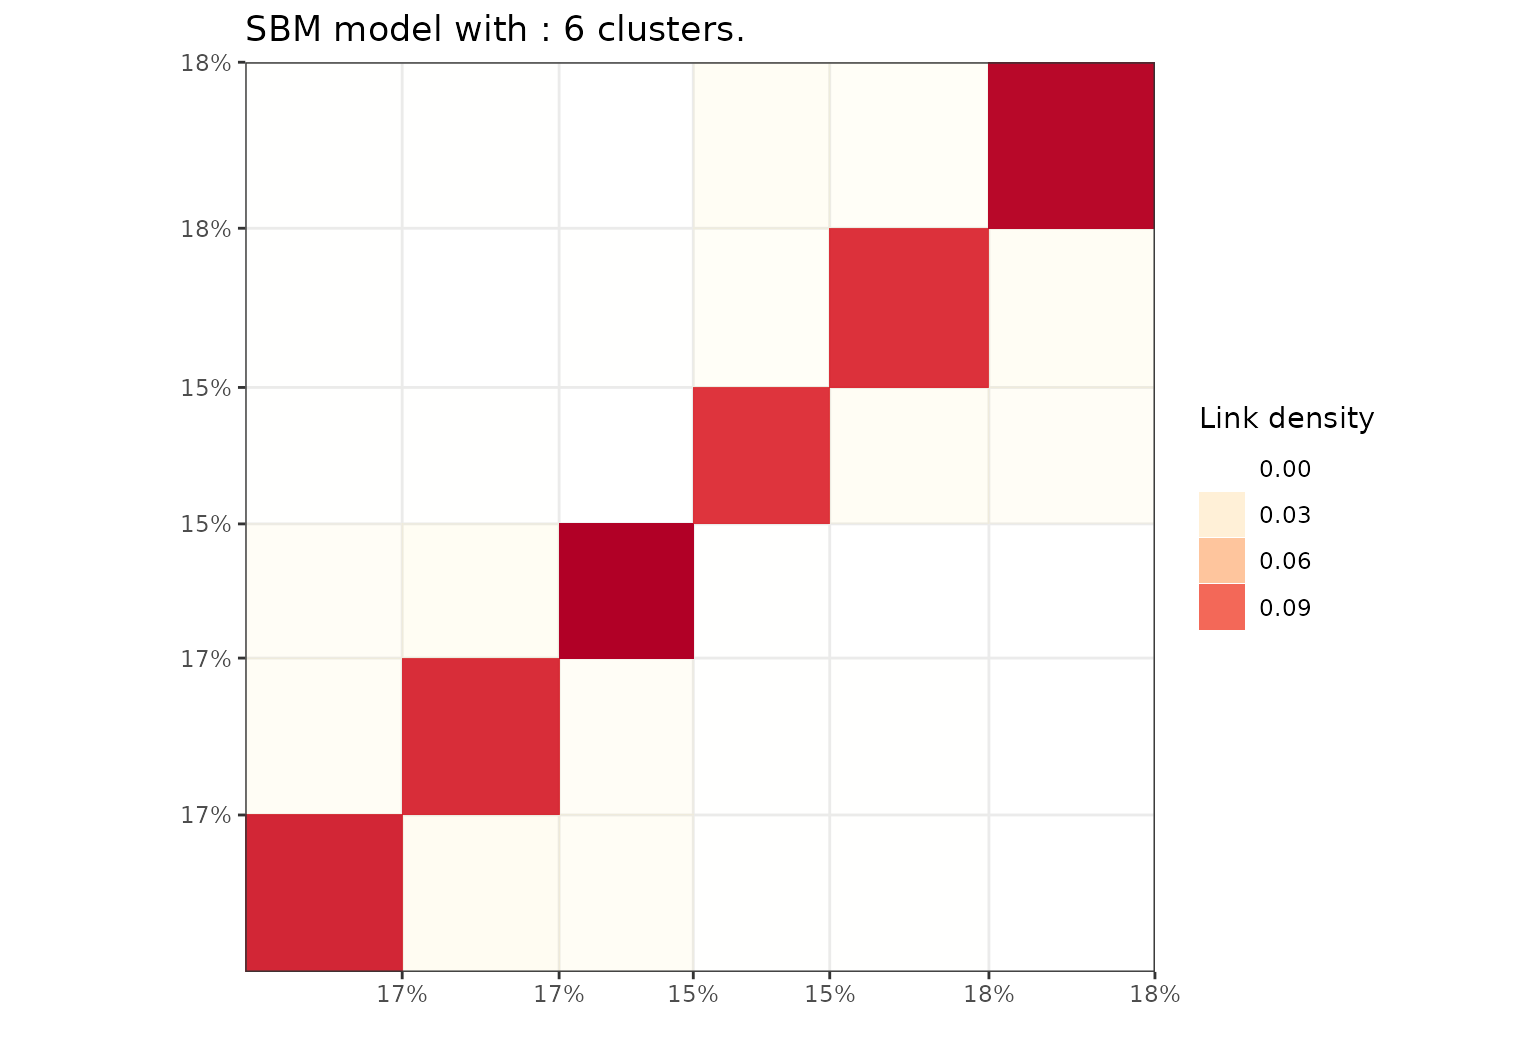
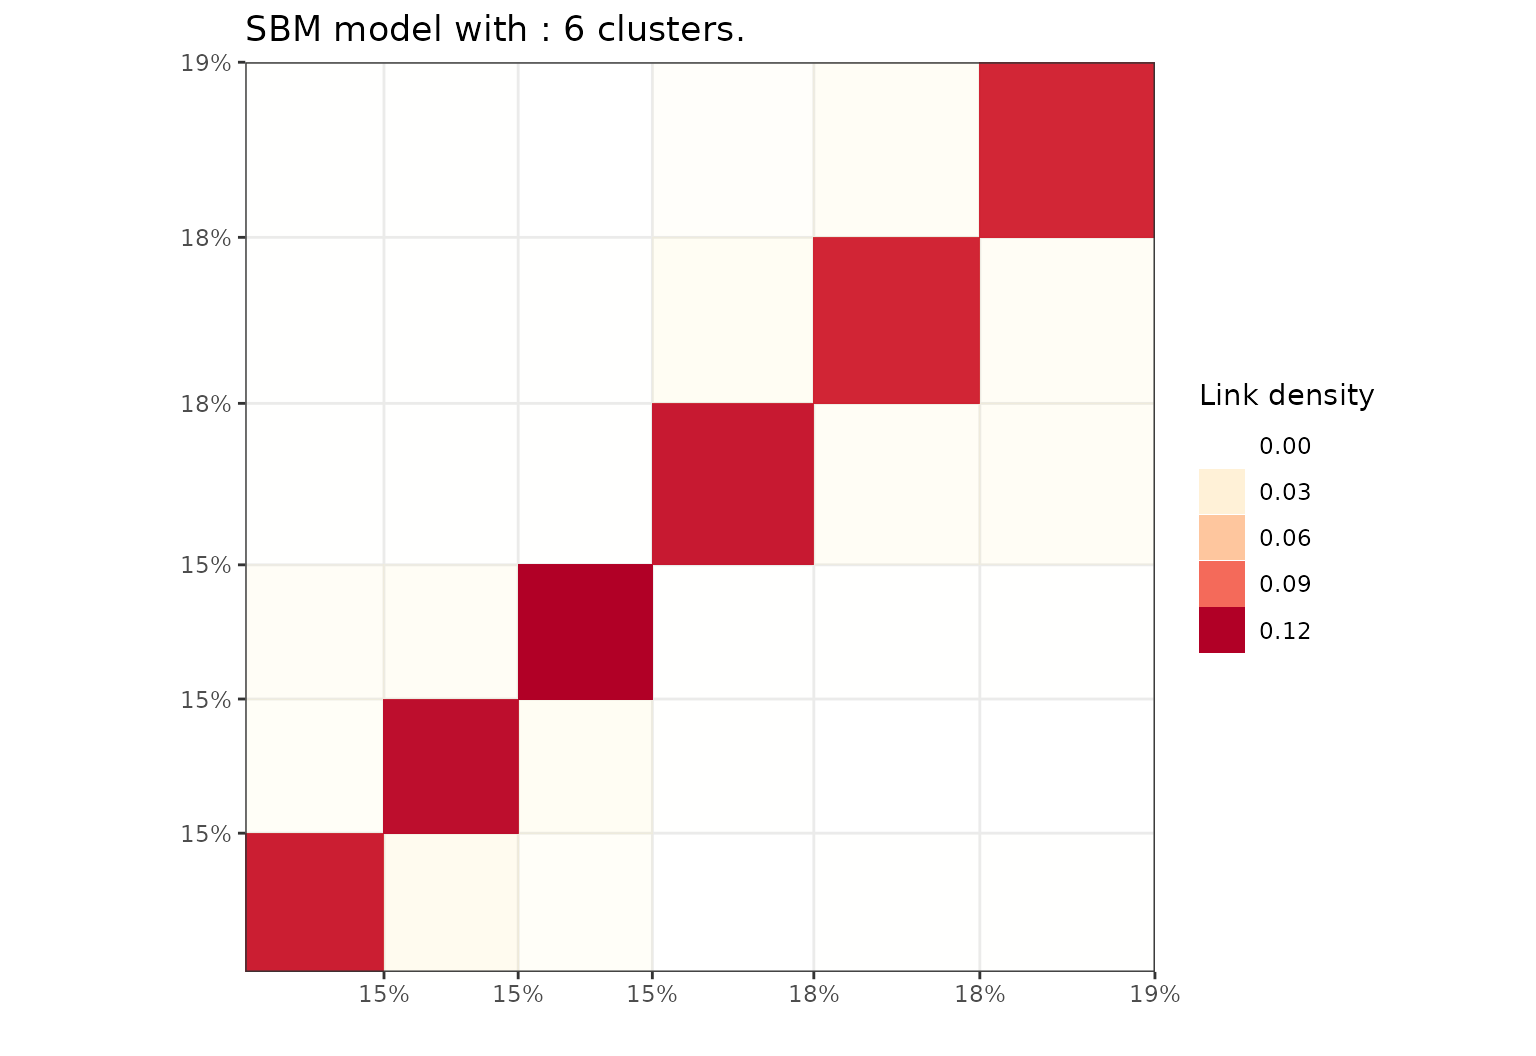
cran submited version 0.5.1

diff --git a/docs/index.html b/docs/index.html
@@ -112,12 +112,12 @@
 <div id="installation" class="section level2">
 <h2 class="hasAnchor">
 <a href="#installation" class="anchor"></a>Installation</h2>
-<p>You can install the developpement version of greed from <a href="https://github.com/">GitHub</a> with:</p>
+<p>You can install the development version of greed from <a href="https://github.com/">GitHub</a> with:</p>
 <div class="sourceCode" id="cb1"><pre class="downlit sourceCode r">
 <code class="sourceCode R"><span class="co">#GitHub</span>
 <span class="fu"><a href="https://rdrr.io/r/utils/install.packages.html">install.packages</a></span><span class="op">(</span><span class="st">"devtools"</span><span class="op">)</span>
 <span class="fu">devtools</span><span class="fu">::</span><span class="fu"><a href="https://devtools.r-lib.org//reference/remote-reexports.html">install_github</a></span><span class="op">(</span><span class="st">"comeetie/greed"</span><span class="op">)</span></code></pre></div>
-<p>Or use the CRAN version</p>
+<p>Or use the CRAN version:</p>
 <div class="sourceCode" id="cb2"><pre class="downlit sourceCode r">
 <code class="sourceCode R"><span class="co">#CRAN</span>
 <span class="fu"><a href="https://rdrr.io/r/utils/install.packages.html">install.packages</a></span><span class="op">(</span><span class="st">"greed"</span><span class="op">)</span></code></pre></div>
@@ -131,17 +131,13 @@
 <span class="fu"><a href="https://rdrr.io/r/utils/data.html">data</a></span><span class="op">(</span><span class="va">Jazz</span><span class="op">)</span>
 <span class="va">sol</span><span class="op">=</span><span class="fu"><a href="reference/greed.html">greed</a></span><span class="op">(</span><span class="va">Jazz</span><span class="op">)</span>
 <span class="co">#&gt; ------- undirected DCSBM model fitting ------</span>
-<span class="co">#&gt; ################# Generation  1: best solution with an ICL of -28617 and 15 clusters #################</span>
-<span class="co">#&gt; ################# Generation  2: best solution with an ICL of -28594 and 16 clusters #################</span>
-<span class="co">#&gt; ################# Generation  3: best solution with an ICL of -28581 and 13 clusters #################</span>
-<span class="co">#&gt; ################# Generation  4: best solution with an ICL of -28576 and 15 clusters #################</span>
-<span class="co">#&gt; ################# Generation  5: best solution with an ICL of -28576 and 13 clusters #################</span>
-<span class="co">#&gt; ################# Generation  6: best solution with an ICL of -28568 and 13 clusters #################</span>
-<span class="co">#&gt; ################# Generation  7: best solution with an ICL of -28561 and 13 clusters #################</span>
-<span class="co">#&gt; ################# Generation  8: best solution with an ICL of -28561 and 13 clusters #################</span>
-<span class="co">#&gt; ################# Generation  9: best solution with an ICL of -28561 and 13 clusters #################</span>
+<span class="co">#&gt; ################# Generation  1: best solution with an ICL of -28611 and 16 clusters #################</span>
+<span class="co">#&gt; ################# Generation  2: best solution with an ICL of -28601 and 15 clusters #################</span>
+<span class="co">#&gt; ################# Generation  3: best solution with an ICL of -28580 and 16 clusters #################</span>
+<span class="co">#&gt; ################# Generation  4: best solution with an ICL of -28578 and 15 clusters #################</span>
+<span class="co">#&gt; ################# Generation  5: best solution with an ICL of -28578 and 15 clusters #################</span>
 <span class="co">#&gt; ------- Final clustering -------</span>
-<span class="co">#&gt; ICL clustering with a DCSBM model, 12 clusters and an icl of -28556.</span></code></pre></div>
+<span class="co">#&gt; ICL clustering with a DCSBM model, 14 clusters and an icl of -28559.</span></code></pre></div>
 <p>Here Jazz is a square sparse matrix and a <code><a href="reference/dcsbm-class.html">?`dcsbm-class`</a></code> model will be used by default. Some plotting function enable the exploration of the clustering results:</p>
 <div class="sourceCode" id="cb4"><pre class="downlit sourceCode r">
 <code class="sourceCode R"><span class="fu"><a href="https://rdrr.io/r/graphics/plot.default.html">plot</a></span><span class="op">(</span><span class="va">sol</span><span class="op">)</span></code></pre></div>
@@ -161,14 +157,16 @@
 <span class="fu"><a href="https://rdrr.io/r/utils/data.html">data</a></span><span class="op">(</span><span class="st">"Blogs"</span><span class="op">)</span>
 <span class="va">sol</span><span class="op">=</span><span class="fu"><a href="reference/greed.html">greed</a></span><span class="op">(</span><span class="va">Blogs</span><span class="op">$</span><span class="va">X</span><span class="op">)</span>
 <span class="co">#&gt; ------- directed DCSBM model fitting ------</span>
-<span class="co">#&gt; ################# Generation  1: best solution with an ICL of -84548 and 16 clusters #################</span>
-<span class="co">#&gt; ################# Generation  2: best solution with an ICL of -84267 and 20 clusters #################</span>
-<span class="co">#&gt; ################# Generation  3: best solution with an ICL of -84260 and 20 clusters #################</span>
-<span class="co">#&gt; ################# Generation  4: best solution with an ICL of -84225 and 18 clusters #################</span>
-<span class="co">#&gt; ################# Generation  5: best solution with an ICL of -84212 and 18 clusters #################</span>
-<span class="co">#&gt; ################# Generation  6: best solution with an ICL of -84212 and 18 clusters #################</span>
+<span class="co">#&gt; ################# Generation  1: best solution with an ICL of -84417 and 16 clusters #################</span>
+<span class="co">#&gt; ################# Generation  2: best solution with an ICL of -84358 and 17 clusters #################</span>
+<span class="co">#&gt; ################# Generation  3: best solution with an ICL of -84199 and 18 clusters #################</span>
+<span class="co">#&gt; ################# Generation  4: best solution with an ICL of -84179 and 19 clusters #################</span>
+<span class="co">#&gt; ################# Generation  5: best solution with an ICL of -84160 and 18 clusters #################</span>
+<span class="co">#&gt; ################# Generation  6: best solution with an ICL of -84150 and 17 clusters #################</span>
+<span class="co">#&gt; ################# Generation  7: best solution with an ICL of -84143 and 17 clusters #################</span>
+<span class="co">#&gt; ################# Generation  8: best solution with an ICL of -84143 and 17 clusters #################</span>
 <span class="co">#&gt; ------- Final clustering -------</span>
-<span class="co">#&gt; ICL clustering with a DCSBM model, 17 clusters and an icl of -84177.</span>
+<span class="co">#&gt; ICL clustering with a DCSBM model, 16 clusters and an icl of -84101.</span>
 <span class="fu"><a href="https://rdrr.io/r/graphics/plot.default.html">plot</a></span><span class="op">(</span><span class="va">sol</span><span class="op">)</span></code></pre></div>
 <p><img src="reference/figures/future-1.png" width="60%"></p>
 </div>

diff --git a/docs/articles/GMM.html b/docs/articles/GMM.html
@@ -102,7 +102,7 @@
 
     
     
-<p>Loads packages and set a future plan for parallel processing if you want.</p>
+<p>Loads packages.</p>
 <div class="sourceCode" id="cb1"><pre class="downlit sourceCode r">
 <code class="sourceCode R"><span class="kw"><a href="https://rdrr.io/r/base/library.html">library</a></span><span class="op">(</span><span class="va"><a href="https://comeetie.github.io/greed/">greed</a></span><span class="op">)</span>
 <span class="kw"><a href="https://rdrr.io/r/base/library.html">library</a></span><span class="op">(</span><span class="va"><a href="https://mclust-org.github.io/mclust/">mclust</a></span><span class="op">)</span>
@@ -198,7 +198,7 @@ X_{i}|Z_{ik}=1 &amp;\sim \mathcal{N}(\mu_k,V_{k}^{-1})\\
 <span class="co">#&gt;   Normal   73  3  0  0</span>
 <span class="co">#&gt;   Overt     0  7 13 13</span></code></pre></div>
 <p><img src="GMM_files/figure-html/diabetes-diaggmm-1.png" width="90%"></p>
-<p>You may still look at coarser clustering and inspect the clustering dendogram:</p>
+<p>You may still look at coarser clustering and inspect the clustering dendrogram:</p>
 <div class="sourceCode" id="cb6"><pre class="downlit sourceCode r">
 <code class="sourceCode R"><span class="fu"><a href="https://rdrr.io/r/graphics/plot.default.html">plot</a></span><span class="op">(</span><span class="va">soldiag</span>,type<span class="op">=</span><span class="st">'tree'</span><span class="op">)</span>
 <span class="va">solK3</span> <span class="op">=</span> <span class="fu"><a href="https://rdrr.io/r/base/cut.html">cut</a></span><span class="op">(</span><span class="va">soldiag</span>,<span class="fl">3</span><span class="op">)</span>
@@ -218,7 +218,7 @@ X_{i}|Z_{ik}=1 &amp;\sim \mathcal{N}(\mu_k,V_{k}^{-1})\\
 <span class="co">#&gt; [1] -2430.727</span>
 <span class="va">soldiag</span><span class="op">@</span><span class="va">icl</span>
 <span class="co">#&gt; [1] -2465.102</span></code></pre></div>
-<p>The full model seems preferable on this dataset. If you want to look at the mixture component parameters you may acces their Maximum a Posteriori estimate with the generic <code>coef</code> function.</p>
+<p>The full model seems preferable on this dataset. If you want to look at the mixture component parameters you may access their Maximum a Posteriori estimate with the generic <code>coef</code> function.</p>
 <div class="sourceCode" id="cb9"><pre class="downlit sourceCode r">
 <code class="sourceCode R"><span class="va">params</span> <span class="op">=</span> <span class="fu"><a href="https://rdrr.io/r/stats/coef.html">coef</a></span><span class="op">(</span><span class="va">solK3</span><span class="op">)</span>
 <span class="va">params</span><span class="op">$</span><span class="va">Sigmak</span><span class="op">[[</span><span class="fl">2</span><span class="op">]</span><span class="op">]</span>
@@ -226,7 +226,7 @@ X_{i}|Z_{ik}=1 &amp;\sim \mathcal{N}(\mu_k,V_{k}^{-1})\\
 <span class="co">#&gt; [1,] 451.5805     0.00     0</span>
 <span class="co">#&gt; [2,]   0.0000 13879.21     0</span>
 <span class="co">#&gt; [3,]   0.0000     0.00 25363</span></code></pre></div>
-<p>Such simpler diagonal model may be of interest in particular for high dimensional settings for two reasons. First, the number of parameters (even if they are integrated out in the clustering phase) is reduced and this can be interesting when <span class="math inline">\(d\)</span> is important, but also because the prior maybe defined such that it will be less informative. You may try with a subset of the fashion mnist data provided with the package which contains 784 dimensionals vectors (28x28 flattened images). In such settings, you may also want to switch the optimization algorithm to <code><a href="../reference/seed-class.html">?`seed-class`</a></code>, this algorithm is less efficient than the hybrid algorithm used by default by greed. But, since it relied on a seeded initialization it is also a little bit less costly. In this case, you may increase the initial value for <span class="math inline">\(K\)</span> since, this algorithm is not able to find an clustering with a number of cluster bigger than the value of <span class="math inline">\(K\)</span> provided by the user. Still, it may simplify the clustering and return an optimal clustering with less clusters.</p>
+<p>Such simpler diagonal model may be of interest in particular for high dimensional settings for two reasons. First, the number of parameters (even if they are integrated out in the clustering phase) is reduced and this can be interesting when <span class="math inline">\(d\)</span> is important, but also because the prior maybe defined such that it will be less informative. You may try with a subset of the fashion mnist data provided with the package which contains 784 dimensional vectors (28x28 flattened images). In such settings, you may also want to switch the optimization algorithm to <code><a href="../reference/seed-class.html">?`seed-class`</a></code>, this algorithm is less efficient than the hybrid algorithm used by default by greed. But, since it relied on a seeded initialization it is also a little bit less costly. In this case, you may increase the initial value for <span class="math inline">\(K\)</span> since, this algorithm is not able to find an clustering with a number of cluster bigger than the value of <span class="math inline">\(K\)</span> provided by the user. Still, it may simplify the clustering and return an optimal clustering with less clusters.</p>
 <div class="sourceCode" id="cb10"><pre class="downlit sourceCode r">
 <code class="sourceCode R"><span class="fu"><a href="https://rdrr.io/r/utils/data.html">data</a></span><span class="op">(</span><span class="st">"fashion"</span><span class="op">)</span>
 <span class="fu"><a href="https://rdrr.io/r/base/dim.html">dim</a></span><span class="op">(</span><span class="va">fashion</span><span class="op">$</span><span class="va">X</span><span class="op">)</span>
@@ -235,7 +235,7 @@ X_{i}|Z_{ik}=1 &amp;\sim \mathcal{N}(\mu_k,V_{k}^{-1})\\
 <span class="co">#&gt; ------- DIAGGMM model fitting ------</span>
 <span class="co">#&gt; ------- Final clustering -------</span>
 <span class="co">#&gt; ICL clustering with a DIAGGMM model, 22 clusters and an icl of -3587798.</span></code></pre></div>
-<p>On this more complex dataset, we may look at the dendogram which is more interesting with the complex structure of these data.</p>
+<p>On this more complex dataset, we may look at the dendrogram which is more interesting with the complex structure of these data.</p>
 <div class="sourceCode" id="cb11"><pre class="downlit sourceCode r">
 <code class="sourceCode R"><span class="fu"><a href="https://rdrr.io/r/graphics/plot.default.html">plot</a></span><span class="op">(</span><span class="va">sol</span>,type<span class="op">=</span><span class="st">'tree'</span><span class="op">)</span></code></pre></div>
 <p><img src="GMM_files/figure-html/fashion-tree-1.png" width="60%"></p>

diff --git a/docs/articles/graph-clustering-with-sbm.html b/docs/articles/graph-clustering-with-sbm.html
@@ -95,7 +95,7 @@
       <h1 data-toc-skip>Graph clustering with SBM</h1>
                         <h4 class="author">Etienne Côme</h4>
             
-            <h4 class="date">2021-05-02</h4>
+            <h4 class="date">2021-05-03</h4>
       
       <small class="dont-index">Source: <a href="https://github.com/comeetie/greed/blob/master/vignettes/graph-clustering-with-sbm.Rmd"><code>vignettes/graph-clustering-with-sbm.Rmd</code></a></small>
       <div class="hidden name"><code>graph-clustering-with-sbm.Rmd</code></div>
@@ -124,11 +124,10 @@
 <div class="sourceCode" id="cb3"><pre class="downlit sourceCode r">
 <code class="sourceCode R"><span class="va">sol</span> <span class="op">=</span> <span class="fu"><a href="../reference/greed.html">greed</a></span><span class="op">(</span><span class="va">sbm</span><span class="op">$</span><span class="va">x</span>,model<span class="op">=</span><span class="fu">new</span><span class="op">(</span><span class="st">"sbm"</span><span class="op">)</span><span class="op">)</span>
 <span class="co">#&gt; ------- directed SBM model fitting ------</span>
-<span class="co">#&gt; ################# Generation  1: best solution with an ICL of -14015 and 7 clusters #################</span>
-<span class="co">#&gt; ################# Generation  2: best solution with an ICL of -13969 and 6 clusters #################</span>
-<span class="co">#&gt; ################# Generation  3: best solution with an ICL of -13969 and 6 clusters #################</span>
+<span class="co">#&gt; ################# Generation  1: best solution with an ICL of -14312 and 6 clusters #################</span>
+<span class="co">#&gt; ################# Generation  2: best solution with an ICL of -14312 and 6 clusters #################</span>
 <span class="co">#&gt; ------- Final clustering -------</span>
-<span class="co">#&gt; ICL clustering with a SBM model, 6 clusters and an icl of -13969.</span></code></pre></div>
+<span class="co">#&gt; ICL clustering with a SBM model, 6 clusters and an icl of -14312.</span></code></pre></div>
 <p>Plot the results using a block representation.</p>
 <div class="sourceCode" id="cb4"><pre class="downlit sourceCode r">
 <code class="sourceCode R"><span class="fu"><a href="https://rdrr.io/r/graphics/plot.default.html">plot</a></span><span class="op">(</span><span class="va">sol</span>,type<span class="op">=</span><span class="st">'blocks'</span><span class="op">)</span></code></pre></div>

diff --git a/docs/reference/gmm-class.html b/docs/reference/gmm-class.html
@@ -44,10 +44,10 @@
 The model corresponds to the following generative model:
 $$ \pi \sim Dirichlet(\alpha)$$
 $$ Z_i  \sim \mathcal{M}(1,\pi)$$
-$$ V_k \sim \mathcal{W}(\epsilon^{-1},n_0)$$
+$$ V_k \sim \mathcal{W}(\varepsilon^{-1},n_0)$$
 $$ \mu_k \sim \mathcal{N}(\mu,(\tau V_k)^{-1})$$
-$$ X_{i.}|Z_{ik}=1 \sim \mathcal{N}(\mu_k,V_{k}^{-1})$$
-with \(\mathcal{W}(\epsilon^{-1},n_0)\) the Whishart distribution." />
+$$ X_{i}|Z_{ik}=1 \sim \mathcal{N}(\mu_k,V_{k}^{-1})$$
+with \(\mathcal{W}(\varepsilon^{-1},n_0)\) the Whishart distribution." />
 
 
 
@@ -149,10 +149,10 @@ with \(\mathcal{W}(\epsilon^{-1},n_0)\) the Whishart distribution." />
 The model corresponds to the following generative model:
 $$ \pi \sim Dirichlet(\alpha)$$
 $$ Z_i  \sim \mathcal{M}(1,\pi)$$
-$$ V_k \sim \mathcal{W}(\epsilon^{-1},n_0)$$
+$$ V_k \sim \mathcal{W}(\varepsilon^{-1},n_0)$$
 $$ \mu_k \sim \mathcal{N}(\mu,(\tau V_k)^{-1})$$
-$$ X_{i.}|Z_{ik}=1 \sim \mathcal{N}(\mu_k,V_{k}^{-1})$$
-with \(\mathcal{W}(\epsilon^{-1},n_0)\) the Whishart distribution.</p>
+$$ X_{i}|Z_{ik}=1 \sim \mathcal{N}(\mu_k,V_{k}^{-1})$$
+with \(\mathcal{W}(\varepsilon^{-1},n_0)\) the Whishart distribution.</p>
     </div>
 
 

diff --git a/docs/reference/mvmreg-class.html b/docs/reference/mvmreg-class.html
@@ -45,7 +45,7 @@ The model follows minka-linear .
 The model corresponds to the following generative model:
 $$ \pi \sim Dirichlet(\alpha)$$
 $$ Z_i  \sim \mathcal{M}(1,\pi)$$
-$$ V_k \sim \mathcal{W}(\epsilon^{-1},n_0)$$
+$$ V_k \sim \mathcal{W}(\varepsilon^{-1},n_0)$$
 $$ A_k \sim \mathcal{MN}(0,(V_k)^{-1},\tau X^{t}X)$$
 $$ Y_{i.}|X_{i.}Z_{ik}=1 \sim \mathcal{N}(A_kx_{i.},V_{k}^{-1})$$
 with \(\mathcal{W}(\epsilon^{-1},n_0)\) the Whishart distribution and \(\mathcal{MN}\) the matrix-normal distribution." />
@@ -151,7 +151,7 @@ The model follows <a href='https://tminka.github.io/papers/minka-linear.pdf'>min
 The model corresponds to the following generative model:
 $$ \pi \sim Dirichlet(\alpha)$$
 $$ Z_i  \sim \mathcal{M}(1,\pi)$$
-$$ V_k \sim \mathcal{W}(\epsilon^{-1},n_0)$$
+$$ V_k \sim \mathcal{W}(\varepsilon^{-1},n_0)$$
 $$ A_k \sim \mathcal{MN}(0,(V_k)^{-1},\tau X^{t}X)$$
 $$ Y_{i.}|X_{i.}Z_{ik}=1 \sim \mathcal{N}(A_kx_{i.},V_{k}^{-1})$$
 with \(\mathcal{W}(\epsilon^{-1},n_0)\) the Whishart distribution and \(\mathcal{MN}\) the matrix-normal distribution.</p>

diff --git a/docs/news/index.html b/docs/news/index.html
@@ -146,7 +146,7 @@
 <li>Better input checking for mvmreg and gmm</li>
 <li>Better input checking for greed_cond</li>
 <li>Correction of compilation problems on solaris</li>
-<li>Correction of pointer problem comming from shed_row/shed_col</li>
+<li>Correction of pointer problem coming from shed_row/shed_col</li>
 <li>Added a <code>NEWS.md</code> file to track changes to the package.</li>
 </ul>
 </div>

diff --git a/README.md b/README.md
@@ -50,7 +50,7 @@ plotting functionality.
 
 ## Installation
 
-You can install the developpement version of greed from
+You can install the development version of greed from
 [GitHub](https://github.com/) with:
 
 ``` r
@@ -59,7 +59,7 @@ install.packages("devtools")
 devtools::install_github("comeetie/greed")
 ```
 
-Or use the CRAN version
+Or use the CRAN version:
 
 ``` r
 #CRAN
@@ -79,17 +79,13 @@ library(greed)
 data(Jazz)
 sol=greed(Jazz)
 #> ------- undirected DCSBM model fitting ------
-#> ################# Generation  1: best solution with an ICL of -28617 and 15 clusters #################
-#> ################# Generation  2: best solution with an ICL of -28594 and 16 clusters #################
-#> ################# Generation  3: best solution with an ICL of -28581 and 13 clusters #################
-#> ################# Generation  4: best solution with an ICL of -28576 and 15 clusters #################
-#> ################# Generation  5: best solution with an ICL of -28576 and 13 clusters #################
-#> ################# Generation  6: best solution with an ICL of -28568 and 13 clusters #################
-#> ################# Generation  7: best solution with an ICL of -28561 and 13 clusters #################
-#> ################# Generation  8: best solution with an ICL of -28561 and 13 clusters #################
-#> ################# Generation  9: best solution with an ICL of -28561 and 13 clusters #################
+#> ################# Generation  1: best solution with an ICL of -28611 and 16 clusters #################
+#> ################# Generation  2: best solution with an ICL of -28601 and 15 clusters #################
+#> ################# Generation  3: best solution with an ICL of -28580 and 16 clusters #################
+#> ################# Generation  4: best solution with an ICL of -28578 and 15 clusters #################
+#> ################# Generation  5: best solution with an ICL of -28578 and 15 clusters #################
 #> ------- Final clustering -------
-#> ICL clustering with a DCSBM model, 12 clusters and an icl of -28556.
+#> ICL clustering with a DCSBM model, 14 clusters and an icl of -28559.
 ```
 
 Here Jazz is a square sparse matrix and a `` ?`dcsbm-class` `` model
@@ -130,14 +126,16 @@ plan(multisession)
 data("Blogs")
 sol=greed(Blogs$X)
 #> ------- directed DCSBM model fitting ------
-#> ################# Generation  1: best solution with an ICL of -84548 and 16 clusters #################
-#> ################# Generation  2: best solution with an ICL of -84267 and 20 clusters #################
-#> ################# Generation  3: best solution with an ICL of -84260 and 20 clusters #################
-#> ################# Generation  4: best solution with an ICL of -84225 and 18 clusters #################
-#> ################# Generation  5: best solution with an ICL of -84212 and 18 clusters #################
-#> ################# Generation  6: best solution with an ICL of -84212 and 18 clusters #################
+#> ################# Generation  1: best solution with an ICL of -84417 and 16 clusters #################
+#> ################# Generation  2: best solution with an ICL of -84358 and 17 clusters #################
+#> ################# Generation  3: best solution with an ICL of -84199 and 18 clusters #################
+#> ################# Generation  4: best solution with an ICL of -84179 and 19 clusters #################
+#> ################# Generation  5: best solution with an ICL of -84160 and 18 clusters #################
+#> ################# Generation  6: best solution with an ICL of -84150 and 17 clusters #################
+#> ################# Generation  7: best solution with an ICL of -84143 and 17 clusters #################
+#> ################# Generation  8: best solution with an ICL of -84143 and 17 clusters #################
 #> ------- Final clustering -------
-#> ICL clustering with a DCSBM model, 17 clusters and an icl of -84177.
+#> ICL clustering with a DCSBM model, 16 clusters and an icl of -84101.
 plot(sol)
 ```
 
